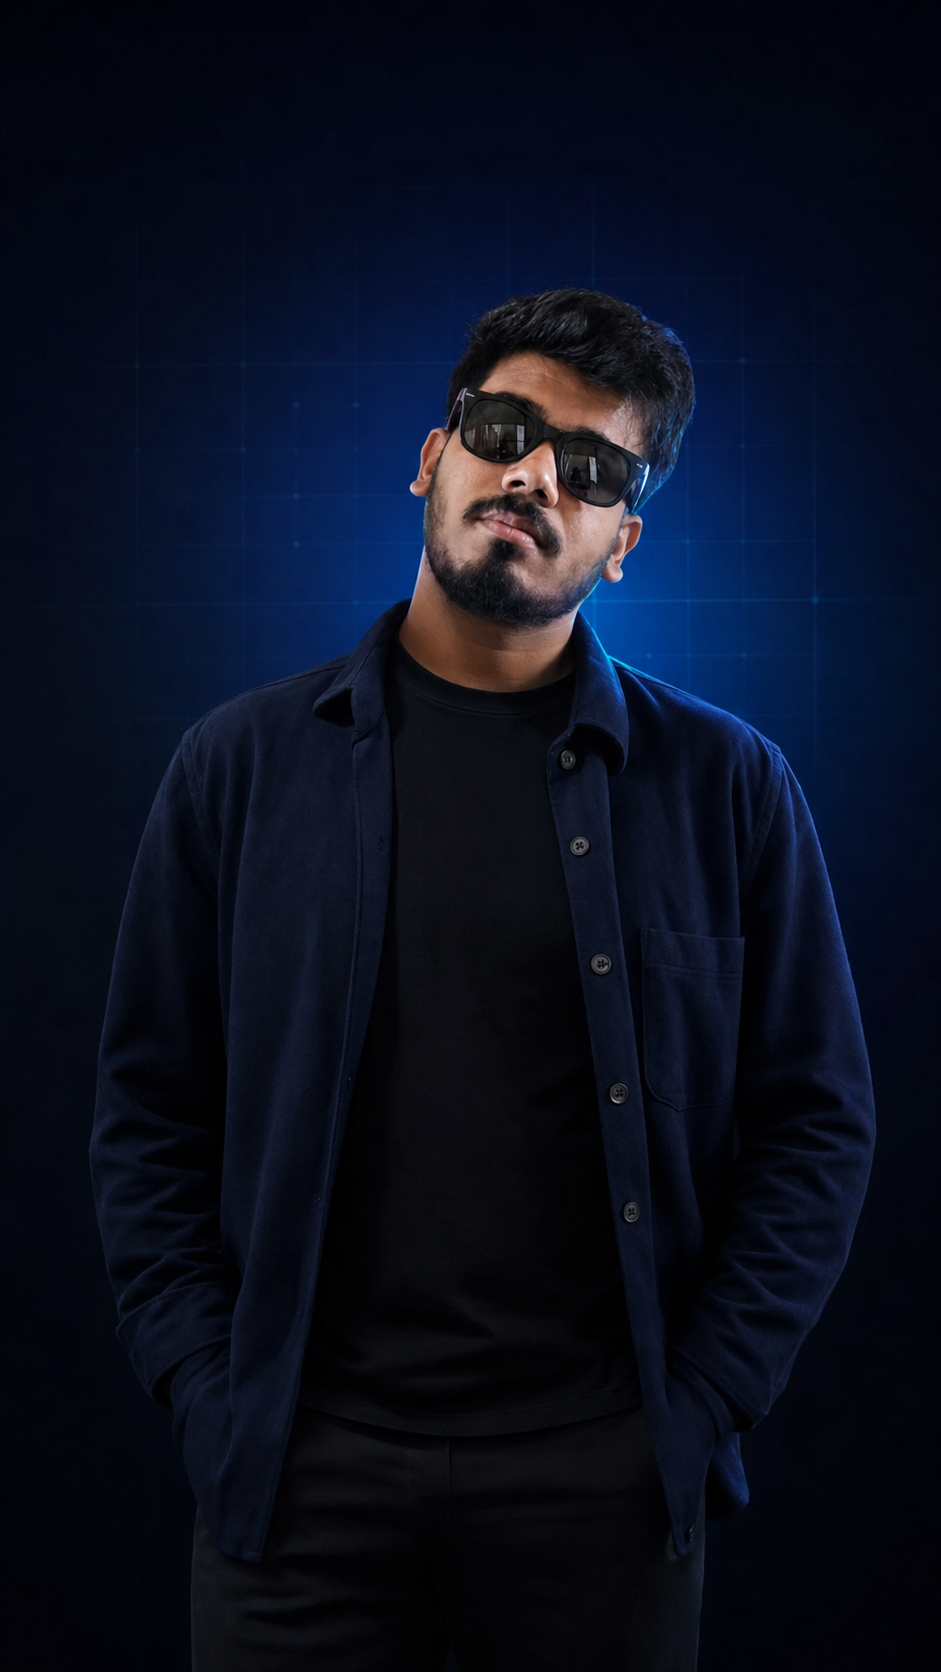
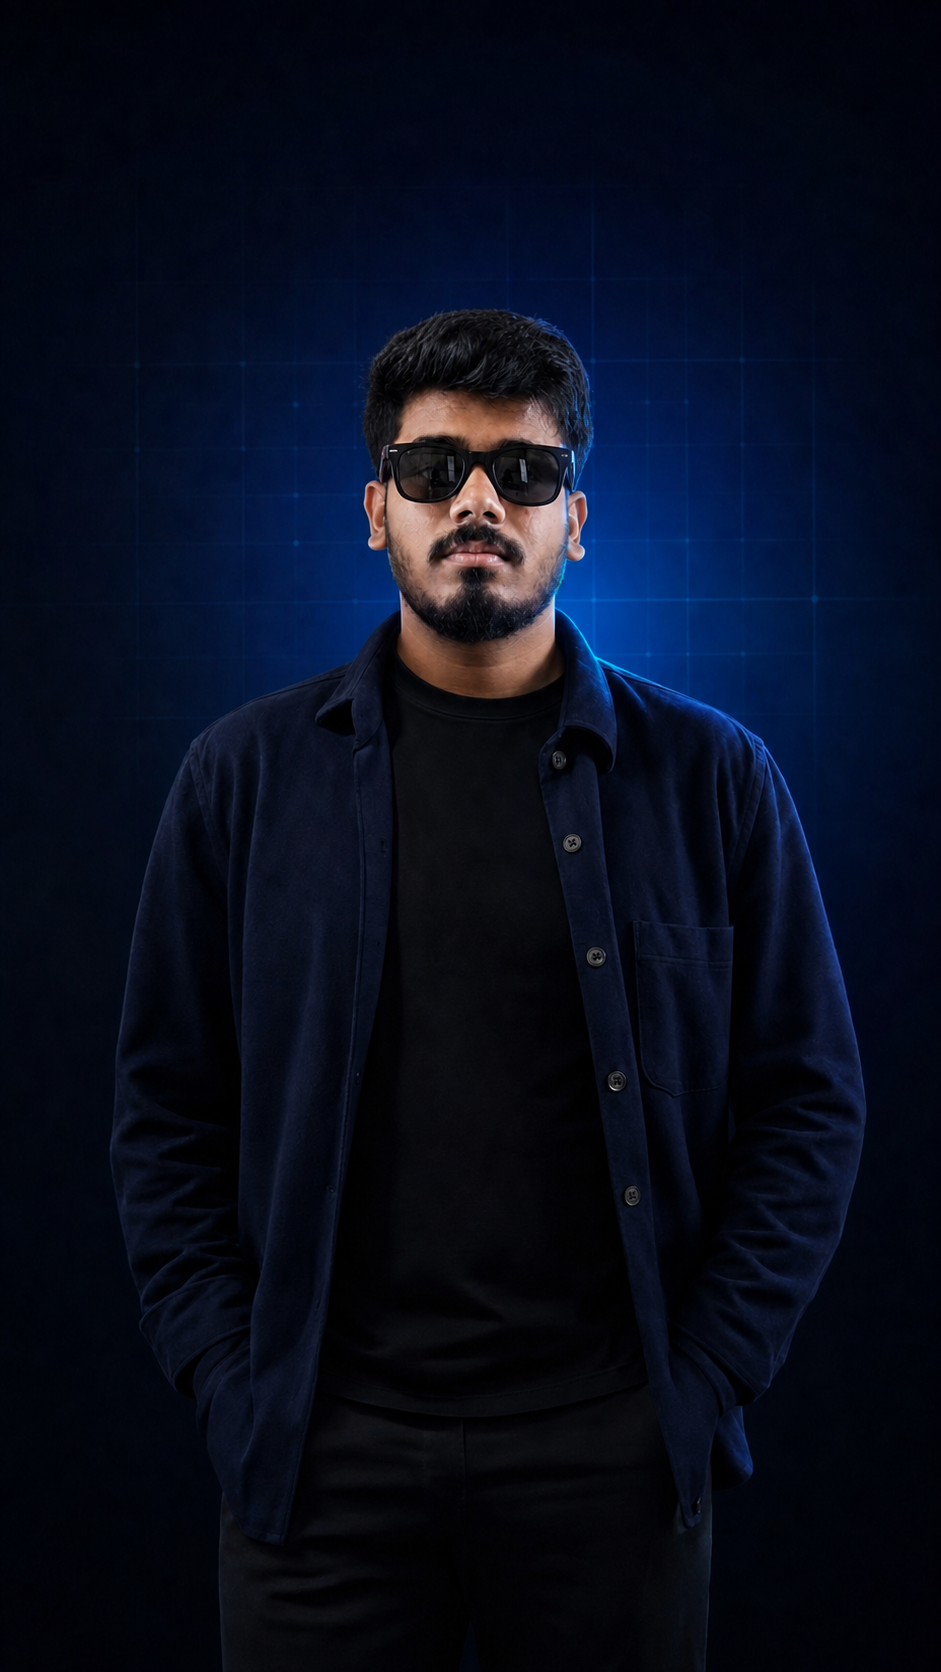
Resume Update

diff --git a/app/page.jsx b/app/page.jsx
@@ -130,7 +130,7 @@ export default function HomePage() {
           </p>
           <div className="hero-actions">
             <a className="button button-primary" href="#work">Explore my impact <span>↓</span></a>
-            <a className="button button-secondary" href="/Syed_Zaid_Ali_Resume.pdf?v=20260714-2" target="_blank" rel="noreferrer">View résumé <span>↗</span></a>
+            <a className="button button-secondary" href="/Syed_Zaid_Ali_Resume.pdf?v=20260714-4" target="_blank" rel="noreferrer">View résumé <span>↗</span></a>
           </div>
           <div className="profile-links" aria-label="Professional profiles">
             <span>Find me online</span>
@@ -145,7 +145,7 @@ export default function HomePage() {
               alt="Zaid Ali, Backend Engineer"
               decoding="async"
               fetchPriority="high"
-              src="/images/zaid-backend-engineer.png"
+              src="/images/zaid-backend-engineer.png?v=20260714-2"
             />
             <div><span>Zaid Ali</span><strong>Backend Engineer</strong></div>
           </div>
@@ -304,7 +304,7 @@ export default function HomePage() {
         </div>
         <div className="footer-bottom">
           <p>© 2026 Zaid Ali</p>
-          <div><a href="/Syed_Zaid_Ali_Resume.pdf?v=20260714-2" target="_blank" rel="noreferrer">Résumé</a><a href="https://www.linkedin.com/in/zaid-ali-b409501a4/" target="_blank" rel="noreferrer">LinkedIn</a><a href="https://github.com/compile-and-cry" target="_blank" rel="noreferrer">GitHub</a><a href="https://medium.com/@zaidali753" target="_blank" rel="noreferrer">Medium</a><a href="#top">Back to top ↑</a></div>
+          <div><a href="/Syed_Zaid_Ali_Resume.pdf?v=20260714-4" target="_blank" rel="noreferrer">Résumé</a><a href="https://www.linkedin.com/in/zaid-ali-b409501a4/" target="_blank" rel="noreferrer">LinkedIn</a><a href="https://github.com/compile-and-cry" target="_blank" rel="noreferrer">GitHub</a><a href="https://medium.com/@zaidali753" target="_blank" rel="noreferrer">Medium</a><a href="#top">Back to top ↑</a></div>
         </div>
       </footer>
     </main>

diff --git a/scripts/generate_resume.py b/scripts/generate_resume.py
@@ -41,6 +41,13 @@ def bullet(text, styles):
     return Paragraph(f"- {text}", styles["bullet"])
 
 
+def impact_item(number, title, text, styles):
+    return Paragraph(
+        f"<font color='#176EDB' size='10.8'><b>{number} / {title}</b></font><br/>{text}",
+        styles["impact"],
+    )
+
+
 def build_resume():
     OUTPUT.parent.mkdir(parents=True, exist_ok=True)
 
@@ -50,7 +57,7 @@ def build_resume():
         leftMargin=15 * mm,
         rightMargin=15 * mm,
         topMargin=10 * mm,
-        bottomMargin=9 * mm,
+        bottomMargin=7 * mm,
         title="Syed Zaid Ali - Backend Engineer Resume",
         author="Syed Zaid Ali",
         subject="Backend Engineer with 4+ years in FinTech and AI accounting",
@@ -106,6 +113,24 @@ def build_resume():
             leading=10,
             textColor=BLUE,
             spaceAfter=0,
+        ),
+        "impact_section": ParagraphStyle(
+            "ImpactSection",
+            parent=base["Heading2"],
+            fontName="Helvetica-Bold",
+            fontSize=11.2,
+            leading=13.2,
+            textColor=BLUE,
+            spaceAfter=0,
+        ),
+        "impact": ParagraphStyle(
+            "Impact",
+            parent=base["Normal"],
+            fontName="Helvetica",
+            fontSize=9.5,
+            leading=12.7,
+            textColor=NAVY,
+            spaceAfter=5.5,
         ),
         "body": ParagraphStyle(
             "Body",
@@ -171,13 +196,29 @@ def build_resume():
         )
     )
 
-    story += section("Selected Engineering Impact", styles)
-    impact_bullets = [
-        "Modernized the MDS API layer with thin HTTP boundaries, service-owned query orchestration, standardized REST contracts, and feature-flagged rollout.",
-        "Reduced a measured bank-statement request from 26 to 10 database queries through batching and query optimization; set a default cursor-paginated page size of 20.",
-        "Validated high-traffic behavior at 500 concurrent users with zero failures, supported by repeatable load-test reporting, Swagger documentation, and Postman flows.",
+    story += [
+        Spacer(1, 9),
+        Paragraph("SELECTED ENGINEERING IMPACT", styles["impact_section"]),
+        HRFlowable(width="100%", thickness=0.9, color=LIGHT, spaceBefore=2, spaceAfter=6),
     ]
-    story.extend(bullet(item, styles) for item in impact_bullets)
+    impact_bullets = [
+        (
+            "01",
+            "PRODUCTION REVAMP & SERVICE REWRITE",
+            "Led the MDS API production revamp and service rewrite, separating HTTP boundaries from service-owned workflows and query orchestration for safer releases and long-term maintainability.",
+        ),
+        (
+            "02",
+            "SYSTEM DESIGN & ENGINEERING FOUNDATIONS",
+            "Led the product's backend system-design revamp and resolved major engineering issues across service boundaries, query ownership, database access, rollout safety, testability, and observability.",
+        ),
+        (
+            "03",
+            "PRODUCTION READINESS",
+            "Raised production readiness with feature-flagged rollout, Swagger and Postman validation, positive and negative API tests, and database-connection profiling under load.",
+        ),
+    ]
+    story.extend(impact_item(*item, styles) for item in impact_bullets)
 
     story += section("Experience", styles)
     story.append(role_header("SDE II", "Karbon Business", "Oct 2024 - Present", styles))
